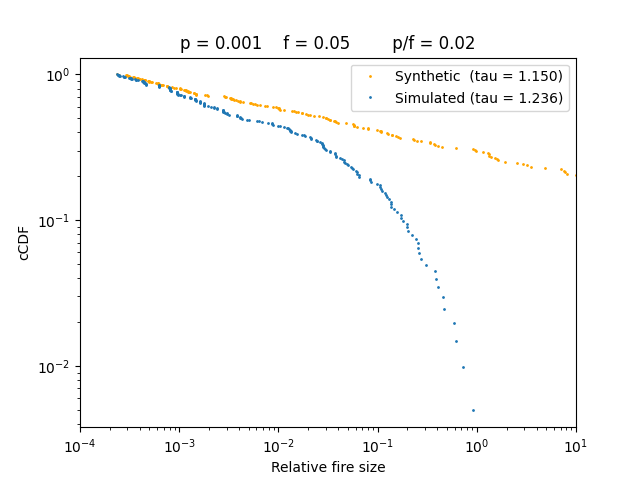
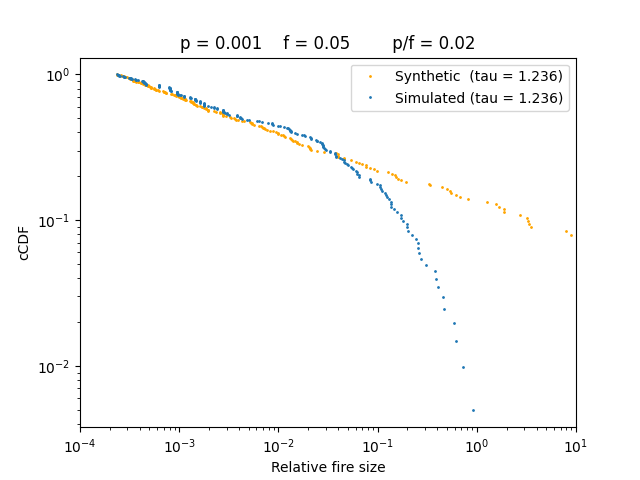
DONE

diff --git a/HW2/ForestFires.py b/HW2/ForestFires.py
@@ -23,8 +23,12 @@ class ForestFires:
         self.SNAPSHOT = SNAPSHOT
         self.time_step = 1
 
-    def initialize_trees(self, PERCENTAGE=0.75):
-        for i in range(int(PERCENTAGE * self.N ** 2)):
+        # Task 2 helper variables
+        self.burned_cluster_data_ALT = list()
+        self.total_trees_data_ALT = list()
+
+    def initialize_trees(self, DENSITY=0.75):
+        for i in range(int(DENSITY * self.N ** 2)):
             (x, y) = self.random_position()
             self.grow_tree(x, y)
     def draw_forest_fire(self):
@@ -129,6 +133,52 @@ class ForestFires:
                         self.total_trees_data.append(np.sum(self.trees))
                         print("BURNED CLUSTER SIZE: " + str(self.burned_cluster_data) + "\n\nTOTAL NUMBER OF TREES: " + str(self.total_trees_data))
                         done = True
+        
+    def step_size_dist(self, DRAW=True):
+
+        empty_sites_x = np.where(self.trees == 0)[0]
+        empty_sites_y = np.where(self.trees == 0)[1]
+        for empty_site in range(len(empty_sites_x)):
+            should_grow = self.tree_probability()
+            if should_grow:
+                self.grow_tree(empty_sites_x[empty_site], empty_sites_y[empty_site])
+        (i, j) = self.random_position()
+        should_burn = self.fire_probability()
+        if should_burn:
+            self.burn_tree(i, j)
+            done = False
+            if np.sum(self.fire) > 0:
+                forest_density = np.sum(self.trees) / self.N
+                while not done:
+                    burning_trees_x = np.where(self.fire == 1)[0]
+                    burning_trees_y = np.where(self.fire == 1)[1]
+                    for i in range(len(burning_trees_x)):
+                        self.burn_neighbours(burning_trees_x[i], burning_trees_y[i])            
+                    burning_trees_next_x = np.where(self.fire == 1)[0]
+                    if np.sum(burning_trees_x) == np.sum(burning_trees_next_x):
+                        self.burned_cluster_data.append(np.sum(self.fire))
+                        self.total_trees_data.append(np.sum(self.trees))
+                        print("BURNED CLUSTER SIZE: " + str(self.burned_cluster_data) + "\n\nTOTAL NUMBER OF TREES: " + str(self.total_trees_data))
+                        done = True
+                self.fire[self.fire == 1] = 0
+                self.initialize_trees(DENSITY=forest_density)
+                while(np.sum(self.fire) == 0):
+                    (x, y) = self.random_position()
+                    self.burn_tree(x, y)
+                done = False
+                while not done:
+                    burning_trees_x = np.where(self.fire == 1)[0]
+                    burning_trees_y = np.where(self.fire == 1)[1]
+                    for i in range(len(burning_trees_x)):
+                        self.burn_neighbours(burning_trees_x[i], burning_trees_y[i])            
+                    burning_trees_next_x = np.where(self.fire == 1)[0]
+                    if np.sum(burning_trees_x) == np.sum(burning_trees_next_x):
+                        self.burned_cluster_data_ALT.append(np.sum(self.fire))
+                        self.total_trees_data_ALT.append(np.sum(self.trees))
+                        print("BURNED CLUSTER SIZE: " + str(self.burned_cluster_data) + "\n\nTOTAL NUMBER OF TREES: " + str(self.total_trees_data))
+                        done = True
+                
+
         if DRAW:
             self.draw_forest_fire()
         self.fire[self.fire == 1] = 0
@@ -206,6 +256,22 @@ def task2_INIT():
     savetxt("trees_p" + str(SOC.p) + "_f" + str(SOC.f) + "_INIT.csv", asarray(SOC.total_trees_data), delimiter=',')
     savetxt("fires_p" + str(SOC.p) + "_f" + str(SOC.f) + "_INIT.csv", asarray(SOC.burned_cluster_data), delimiter=',')
 
+def task2():
+    SOC = ForestFires(N=128, p=0.001, f=0.05, GLOBE=True, SNAPSHOT=False)
+    for i in range(10000):
+        SOC.step_size_dist(DRAW=False)
+        print("TIME STEP: " + str(i + 1))
+        SOC.time_step += 1
+
+    # Sort data
+    SOC.total_trees_data = sorted(SOC.total_trees_data, reverse=True)
+    SOC.burned_cluster_data = sorted(SOC.burned_cluster_data, reverse=True)
+
+    savetxt("trees_p" + str(SOC.p) + "_f" + str(SOC.f) + "_TASK2.csv", asarray(SOC.total_trees_data), delimiter=',')
+    savetxt("fires_p" + str(SOC.p) + "_f" + str(SOC.f) + "_TASK2.csv", asarray(SOC.burned_cluster_data), delimiter=',')
+    savetxt("trees_p" + str(SOC.p) + "_f" + str(SOC.f) + "_TASK2_ALT.csv", asarray(SOC.total_trees_data_ALT), delimiter=',')
+    savetxt("fires_p" + str(SOC.p) + "_f" + str(SOC.f) + "_TASK2_ALT.csv", asarray(SOC.burned_cluster_data_ALT), delimiter=',')
+
 def finite_size(lattice):
     SOC = ForestFires(N=lattice, p=0.001, f=0.1, GLOBE=True, SNAPSHOT=False)
     SOC.initialize_trees()
@@ -228,5 +294,6 @@ def task4():
 
 #task1()
 #task2_NOT_INIT()
-task2_INIT()
+#task2_INIT()
+task2()
 #task4() 
